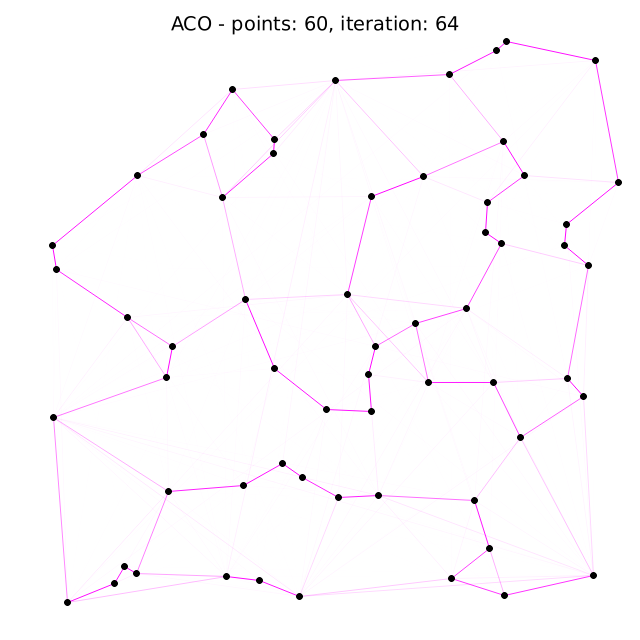
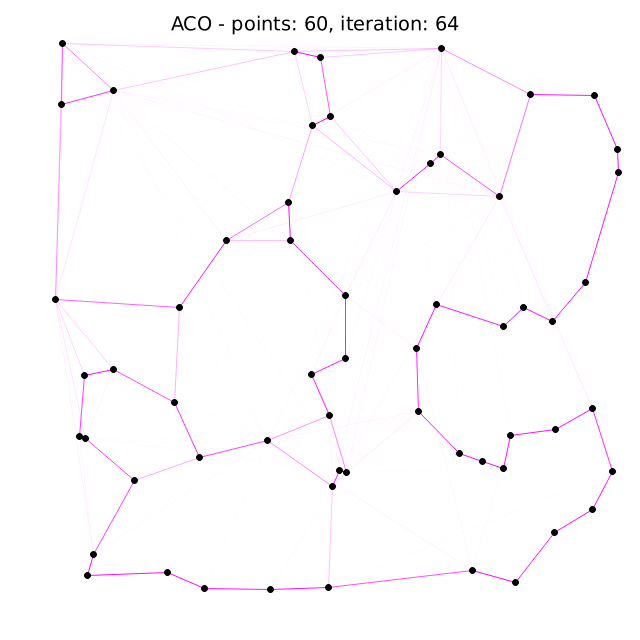
Update plots with new 60 point approximation

diff --git a/README.md b/README.md
@@ -87,9 +87,8 @@ And a rather remarkable approximation for 60 points (which has approximately as 
 ![](images/apng/animation_2.png)
 
 TODO: Write random walk approximation, that returns best, worst and average path lengths for n random walks through each point once (and final return to origin point), for comparison with the ACO approximation results, when n of points too high for brute-force solutution (pretty much anything > 13 points).
-____________________________
 
-________________________________________________
+____________________________________________________________________________
 
 ## Benchmarks:
 
